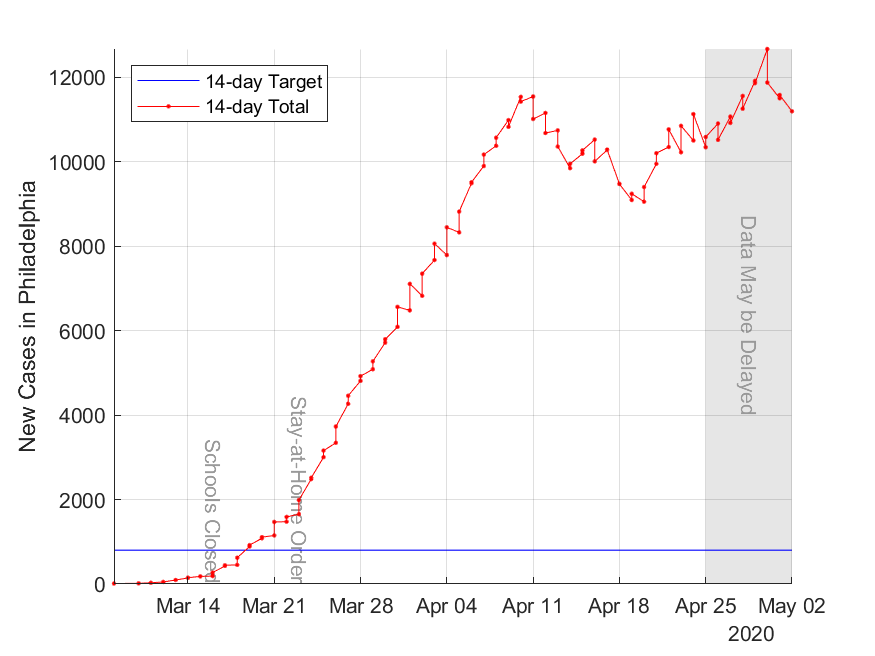
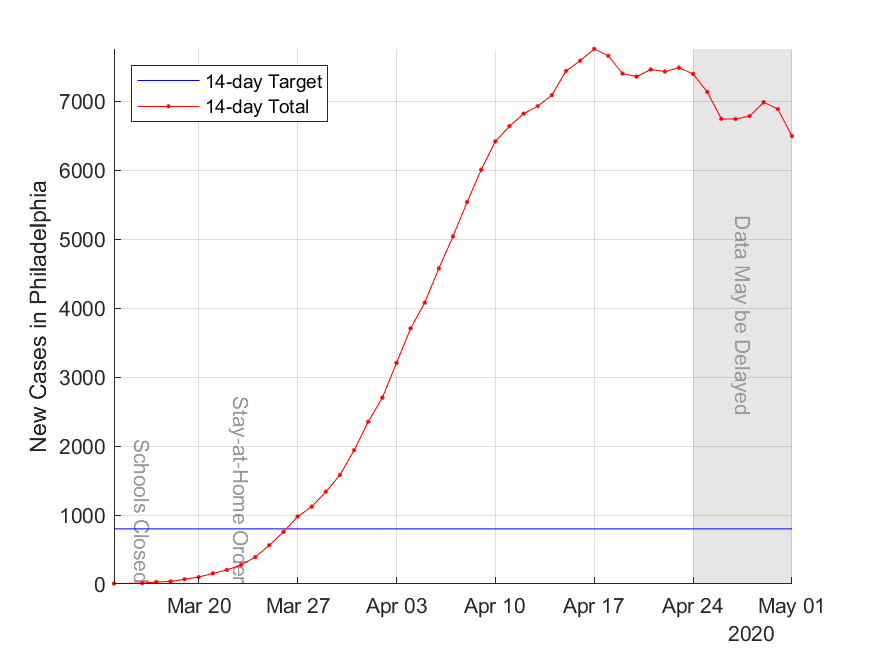
Updated to reflect city's inclusion of negative tests in API endpoint.

diff --git a/covid.m b/covid.m
@@ -2,7 +2,7 @@ clear;
 
 %% download and format data
 
-json = webread('https://phl.carto.com/api/v2/sql?q=SELECT%20*%20FROM%20covid_cases_by_date%20ORDER%20BY%20result_date');
+json = webread('https://phl.carto.com/api/v2/sql?q=SELECT%20*%20FROM%20covid_cases_by_date%20WHERE%20test_result%20=%20%27positive%27%20ORDER%20BY%20result_date');
 
 data = json.rows;
 
@@ -120,7 +120,8 @@ print('imgs/newCases','-dpng');
 
 %% Regression
 
-figure(3);
+f = figure(3);
+set(f, 'Position', [10 100 1200 600]);
 clf;
 hold on;
 
@@ -135,7 +136,7 @@ fl = fill(datenum([
     max(rollingSum)
     max(rollingSum)
     0
-], [.9 .9 .9], 'EdgeColor', 'none');
+] * 1.1, [.9 .9 .9], 'EdgeColor', 'none');
 % do not display fill in legend
 set(get(get(fl,'Annotation'),'LegendInformation'),'IconDisplayStyle','off');
 %text(max(dates) - days(3.5), max(rollingSum)/2, "Data May be Delayed", 'HorizontalAlignment', 'center', 'rotation', 270, 'color', [.6 .6 .6])
@@ -147,34 +148,49 @@ set(get(get(fl,'Annotation'),'LegendInformation'),'IconDisplayStyle','off');
 p1c14 = fit(dateI(end-14+1:end), rollingSum(end-14+1:end), 'poly1');
 p1c7 = fit(dateI(end-7+1:end), rollingSum(end-7+1:end), 'poly1');
 p2c = fit(dateI, rollingSum, 'poly2');
+g1c = fit(dateI, rollingSum, 'gauss1');
+g2c = fit(dateI, rollingSum, 'gauss2');
 g3c = fit(dateI, rollingSum, 'gauss3');
 g4c = fit(dateI, rollingSum, 'gauss4');
 
+
 % Plot curves
 ylabel('New Cases in Philadelphia');
-plot([min(dateI) max(dateI)+60] , ones(1, 2) * target, '-k');
+plot([min(dateI) max(dateI)+70] , ones(1, 2) * target, '-k');
 plot(dateI, rollingSum, '.-r');
 axis tight;
 axis manual;
-set(plot(p1c14), 'Color', [0 1 0]);
-set(plot(p1c7), 'Color', [0 .8 .2]);
-set(plot(p2c), 'Color', [0 .6 .4]);
-set(plot(g3c), 'Color', [0 .4 .6]);
-set(plot(g4c), 'Color', [0 .2 .8]);
+set(plot(p1c14, '-g'), 'Color', [0 1 0]);
+set(plot(p1c7, '-g'), 'Color', [0 .8 .2]);
+set(plot(p2c, '-g'), 'Color', [0 .6 .4]);
+set(plot(g1c, '-g'), 'Color', [0 .4 .6]);
+set(plot(g2c, '-g'), 'Color', [0 .2 .8]);
+set(plot(g3c, '-g'), 'Color', [0 0 1]);
+set(plot(g3c, '-g'), 'Color', [.2 0 .8]);
 
 grid on;
 hold off;
-l = legend('14-day Target','14-day Total', 'Linear, 14 Days', 'Linear, 7 Days', 'Quadratic', 'Gauss-3', 'Gauss-4');
+l = legend( ...
+    '14-day Target', ...
+    '14-day Total', ...
+    'Linear, 14 Days', ...
+    'Linear, 7 Days', ...
+    'Quadratic', ...
+    'Gauss-1', ...
+    'Gauss-2', ...
+    'Gauss-3', ...
+    'Gauss-4');
+
 
 % bring axes to top
-set(gca, 'Layer', 'top')
+set(gca, 'Layer', 'top');
 
 set(l, 'Location', 'northeast');
-xlabel(['Days from Now ('  datestr(datetime('now'))  ')']);
-ylabel('New cases in Philadelphia');
+xlabel(['Days From Now ('  datestr(datetime('now'))  ')']);
+ylabel('New Cases in Philadelphia');
 
 
-save figure
+% save figure
 print('imgs/projections','-dpng');
 
 
